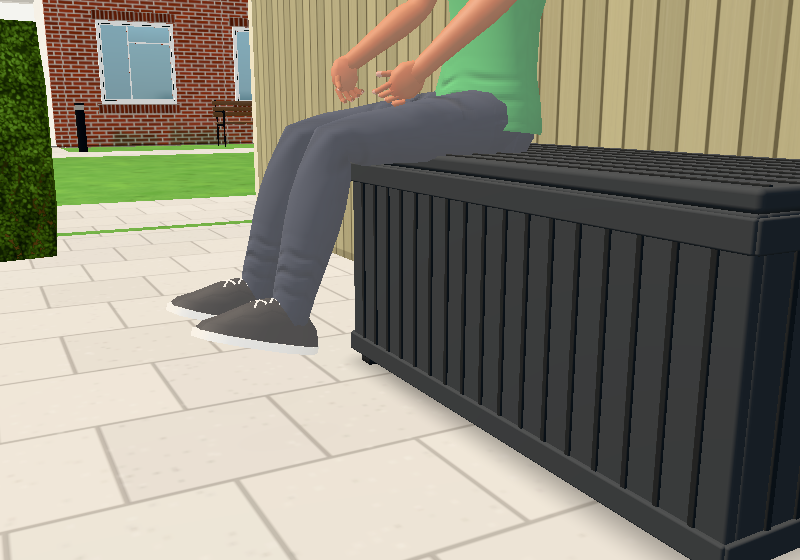
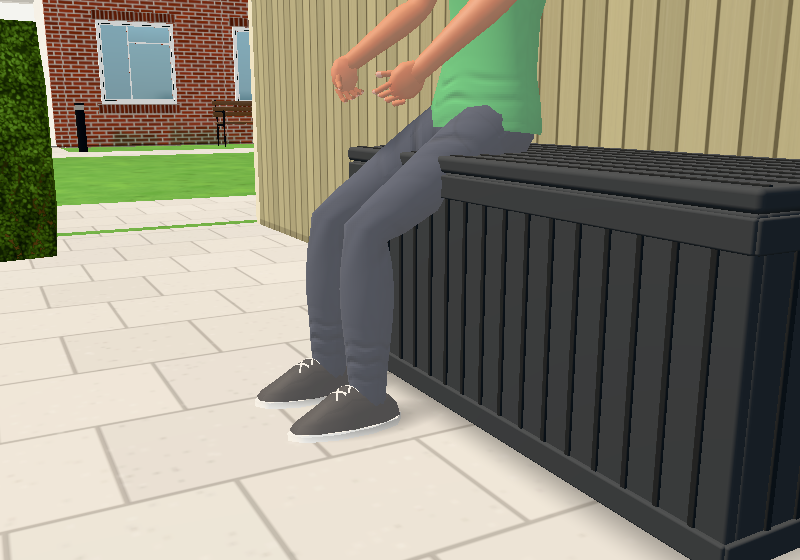
Seated legs: an adult's reach covers a 0.60 m seat (feet on the floor, thighs sloping down), only short legs dangle; helper test adult vs child. Refs #2158

Changed region(s): [[0.2188, 0.1518, 0.6562, 0.7893]]

diff --git a/src/config.js b/src/config.js
@@ -5020,7 +5020,7 @@ export const SEAT_LEGS = {
   ankle: 0.05, hipZ: 0.07, // the ankle over the floor and the hips' forward offset (as seatedPose)
   base: [0.155, 0.134],
   low: [-0.45, 0.9], // a low seat at its limit: knees up, shins forward (the car)
-  reach: [0.3, 0], // a high seat at its limit with the feet still down: thighs over the front edge, shins upright, toes reaching
+  reach: [0.85, -0.05], // a high seat at its limit with the feet still down (an adult's knee-to-sole ~0.5-0.55 m reaches a 0.60 m seat: thighs sloping down over the front edge, shins upright to slightly tucked, toes touching; *guess*)
   dangle: [0.1, 0.3], band: 0.1, // beyond reach the legs relax into hanging over `band` m more drop: feet off the floor
   pump: [0.75, -0.5], pumpSpeed: 1.1, pumpMax: 2.5, pumpEase: 6, // a swing (#1818): shin tilt added at full forward / backward speed (m/s); faster = a vehicle, no pump
   probe: 0.35, reread: 0.4, // the floor is read this far in front of the root, once per seat (again only after the root moved `reread` m)
